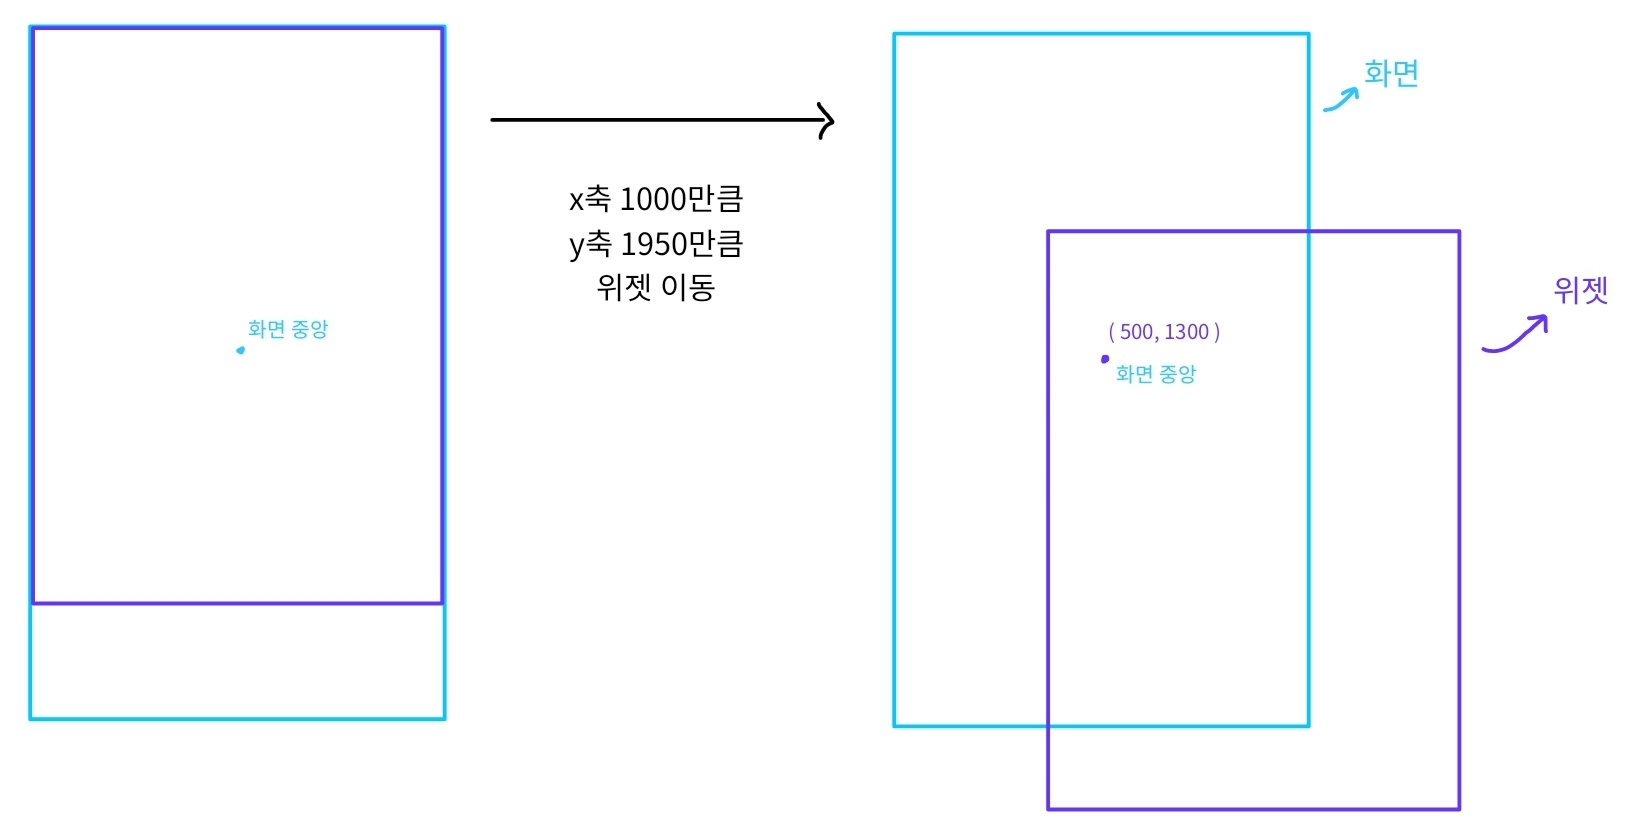
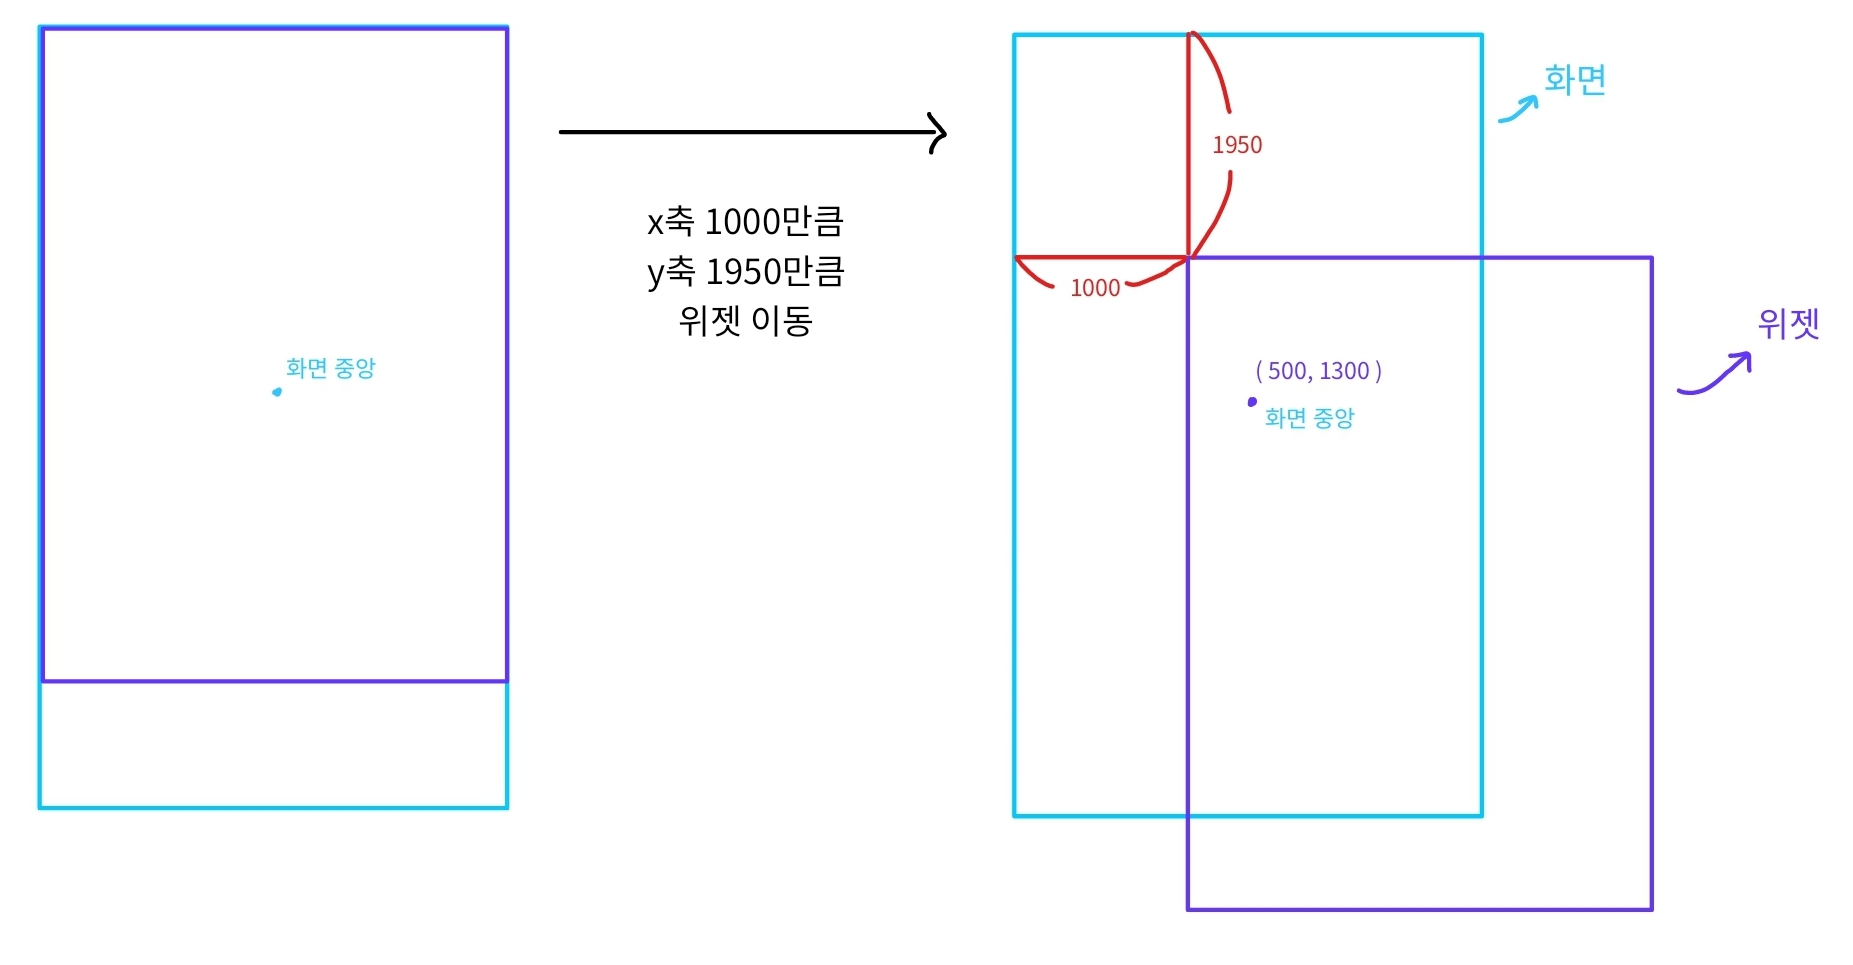
zoom, drag

diff --git a/_posts/project/dubeogi/2024-02-08-005.md b/_posts/project/dubeogi/2024-02-08-005.md
@@ -89,3 +89,58 @@ Offset(_imageWidth_du / 2 - mapvalue.position.dx, _imageHeight_du / 2 + scr_img_
 
 ### <span style = 'color: #008000'>줌, 드래그 기능 구현하기: onScaleStart, onScaleUpdate</span>
 위에서도 설명했듯이 onScaleStart, onScaleUpdate는 GestureDetector의 콜백함수이다.
+
+**onScaleStart**는 사용자가 제스처를 시작할 때 호출되는 함수이다.  
+매개변수로 ScaleStartDetails details를 받는데<br>
+이 details는 줌/드래그 가 시작된 위치와 시간 등의 정보를 가진다.<br>
+
+아래와 같이 **제스처가 시작**되는 순간의 줌 정도와 현재의 위치를 저장하도록 했다.
+
+```dart
+  // 줌/드래그 가 시작되는 시점의 줌 레벨과 위치를 저장하는 함수 _onScaleStart
+  void _onScaleStart(ScaleStartDetails details) {
+    mapvalue.previousScale = mapvalue.scale;
+    mapvalue.previousPosition = details.focalPoint;
+  }
+```
+<br>
+**onScaleUpdate**는 사용자가 **제스처를 진행중**일 때 호출되는 함수이다.  
+역시 매개변수로 ScaleUpdateDetails details를 받고<br>
+이 details는 줌 변화량과 중심 위치등의 정보를 가진다.<br>
+
+먼저 아래와 같이 줌 레벨의 정도를 업데이트 한다.
+
+```dart
+mapvalue.scale = (mapvalue.previousScale * details.scale).clamp(1.3, 12.0);
+```
+onScaleStart에서 저장해둔 이전의 줌 레벨 값에 바뀐 줌 레벨 정도를 곱해서 새로운 줌 레벨을 저장한다.
+
+다음은 **드래그** 기능이다.
+
+드래그는 사용자가 화면을 드래그하는 정도와 위젯이 이동하는 변화량이 같게 만들면 구현이 가능하다.  
+즉 details가 가지고 있는 중심위치(사용자가 화면을 드래그해서 바뀐 중심 위치)에서 기존의 위치를 빼면<br>
+화면을 이동한 정도가 나오고 그 값을 좌표 변수에 빼주면 된다.<br>
+(위젯을 50만큼 이동시키기 위해서는 좌표가 -50이 되어야하므로 '-=' 연산자를 사용) 
+
+하지만 주의해야할 점은 줌 레벨에 따라 드래그의 변화량도 변한다는 것이다.  
+화면이 확대되어있는 상태와 확대되어있지 않은 상태에서 한 번의 드래그 변화량은 차이가 크다.<br>
+따라서 그 변화량을 반드시 줌 레벨 값을 나누어서 보정을 해주어야한다.<br>
+
+```dart
+mapvalue.position -= (details.focalPoint - mapvalue.previousPosition) / mapvalue.previousScale / scale_offset;
+```
+
+scale_offset은 좌표를 이미지의 픽셀단위와 같도록 보정해주는 비율값이다.  
+이미지 위젯을 화면 너비에 꽉 차도록 띄웠기 때문에 디바이스 너비 해상도에서 이미지의 너비(3000)을 나누어서 비율을 계산 했다.<br>
+
+즉<br>
+**디바이스 너비 / 이미지 너비 = scale_offset** 이고 이는<br>
+**디바이스 너비 / scale_offset = 이미지 너비** 와 같으므로
+
+**실제 디바이스 드래그 변화량 / scale_offset = 이미지 좌표 변화량**이 된다.
+
+### <span style = 'color: #008000'>드래그로 이미지 위젯 밖을 벗어나지 않도록 만들기: clamp</span>
+
+현재 DU벅이의 지도는 3000 x 5333 이미지를 사용중이다.  
+이미지 위젯을 통해 이미지를 화면에 띄우고 드래그 기능을 구현하면 한 가지 문제가 발생한다.<br>
+계속 한 방향으로 드래그를 지속하면 
